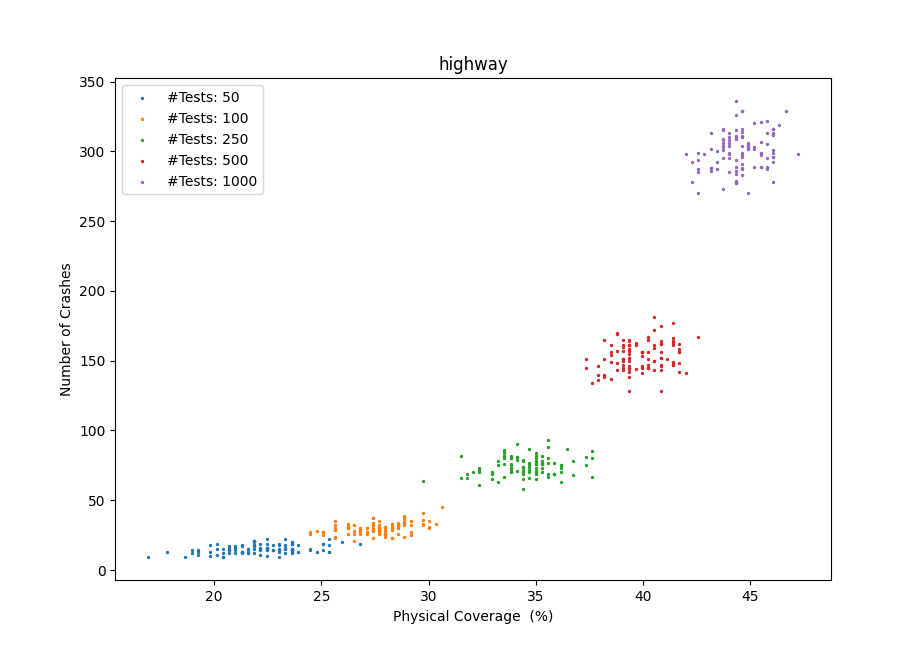
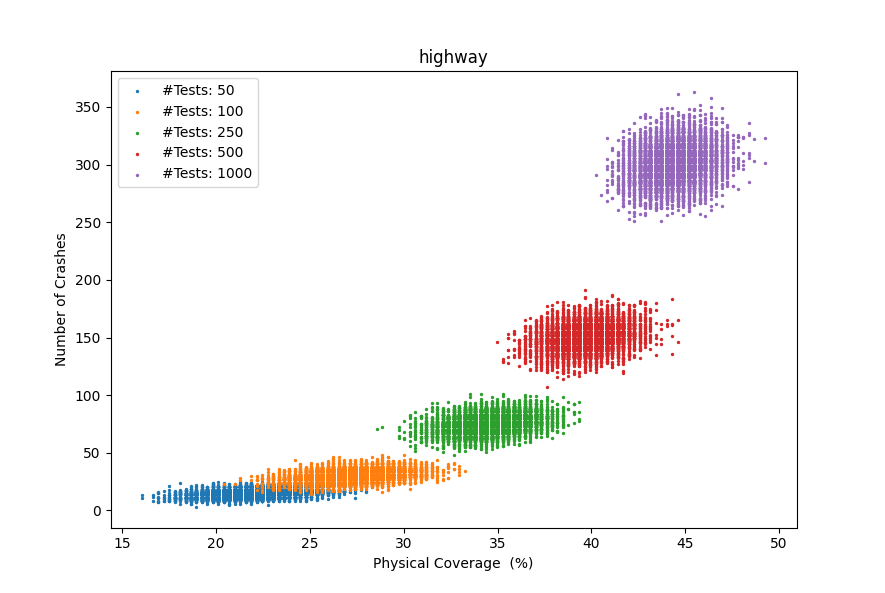
Updated to 10k

diff --git a/coverage_analysis/rq3_compute.py b/coverage_analysis/rq3_compute.py
@@ -110,7 +110,7 @@ print("----------------------------------")
 print("--------Crashes vs Coverage-------")
 print("----------------------------------")
 
-total_test_suites = 1000
+total_test_suites = 10000
 tests_per_test_suite = [50, 100, 250, 500, 1000]
 
 # Create a pool with x processes
